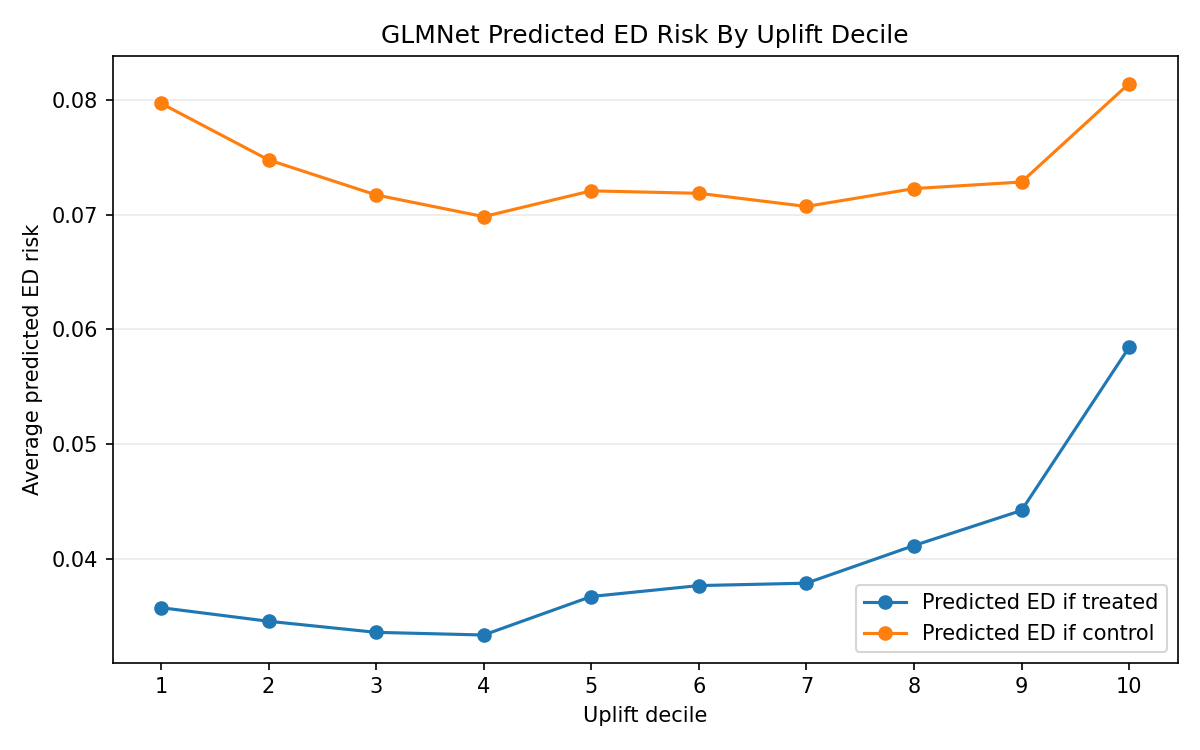
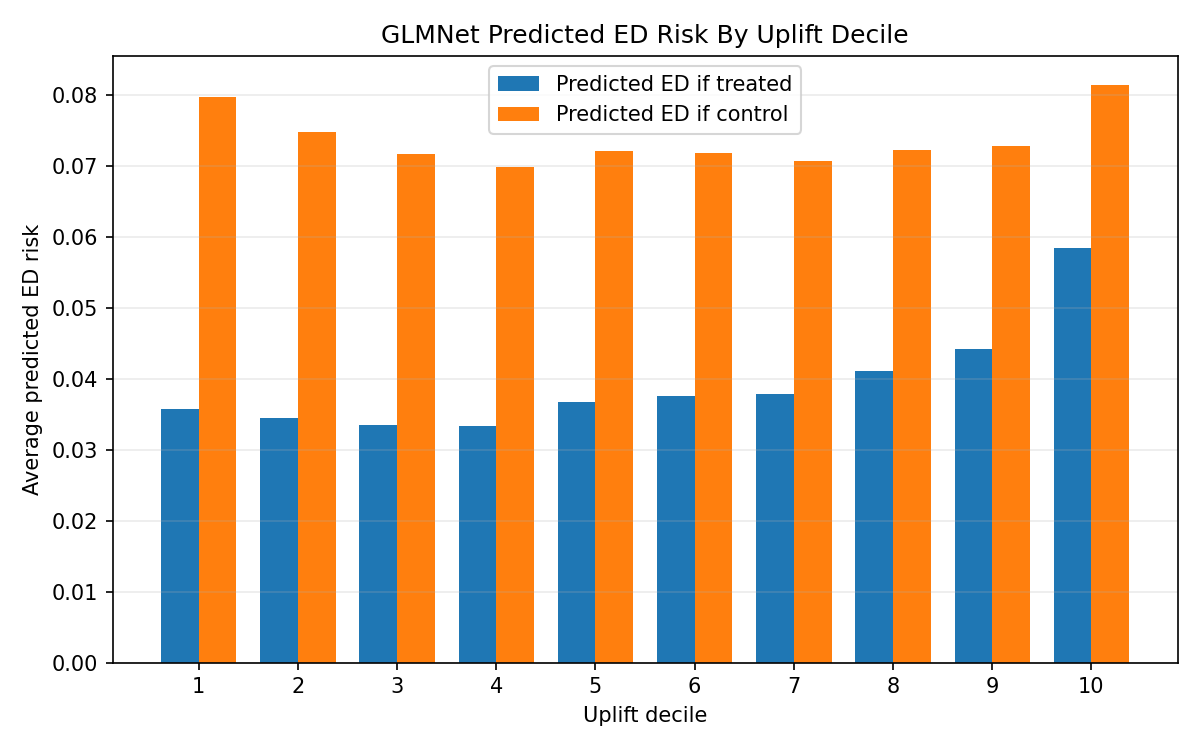
f

diff --git a/Code/generate_readme_tables.py b/Code/generate_readme_tables.py
@@ -684,22 +684,25 @@ def ensure_glmnet_predicted_treated_vs_control_chart() -> Path:
     chart_path = GLMNET_ROOT / "dashboard_predicted_treated_vs_control.png"
     df = pd.read_csv(path).sort_values("uplift_decile")
     fig, ax = plt.subplots(figsize=(8, 5))
-    ax.plot(
-        df["uplift_decile"],
+    x_values = range(len(df))
+    bar_width = 0.38
+    ax.bar(
+        [x - bar_width / 2 for x in x_values],
         df["avg_pred_ed_if_treated"],
-        marker="o",
+        width=bar_width,
         label="Predicted ED if treated",
     )
-    ax.plot(
-        df["uplift_decile"],
+    ax.bar(
+        [x + bar_width / 2 for x in x_values],
         df["avg_pred_ed_if_control"],
-        marker="o",
+        width=bar_width,
         label="Predicted ED if control",
     )
     ax.set_title("GLMNet Predicted ED Risk By Uplift Decile")
     ax.set_xlabel("Uplift decile")
     ax.set_ylabel("Average predicted ED risk")
-    ax.set_xticks(df["uplift_decile"])
+    ax.set_xticks(list(x_values))
+    ax.set_xticklabels(df["uplift_decile"].astype(str))
     ax.grid(axis="y", alpha=0.25)
     ax.legend()
     fig.tight_layout()
